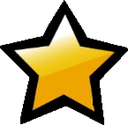
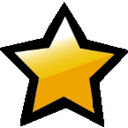
Implement skill star animation

diff --git a/core/src/main/kotlin/io/github/chrislo27/bouncyroadmania/engine/Engine.kt b/core/src/main/kotlin/io/github/chrislo27/bouncyroadmania/engine/Engine.kt
@@ -199,6 +199,8 @@ class Engine : Clock(), Disposable {
     val normalBouncerCurrentTint: Color = Color(1f, 1f, 1f, 1f).set(normalBouncerTint)
     val aBouncerCurrentTint: Color = Color(1f, 1f, 1f, 1f).set(aBouncerTint)
     val dpadBouncerCurrentTint: Color = Color(1f, 1f, 1f, 1f).set(dpadBouncerTint)
+    private var skillStarSpinAnimation: Float = 0f
+    private var skillStarPulseAnimation: Float = 0f
 
     // Practice related
     var currentTextBox: TextBox? = null
@@ -369,6 +371,29 @@ class Engine : Clock(), Disposable {
             }
         }
 
+        if (skillStarInput.isFinite()) {
+            if (skillStarSpinAnimation > 0) {
+                skillStarSpinAnimation -= Gdx.graphics.deltaTime / 1f
+                if (skillStarSpinAnimation < 0)
+                    skillStarSpinAnimation = 0f
+            }
+            if (skillStarPulseAnimation > 0) {
+                skillStarPulseAnimation -= Gdx.graphics.deltaTime / 0.5f
+                if (skillStarPulseAnimation < 0)
+                    skillStarPulseAnimation = 0f
+            } else {
+                // Pulse before skill star input
+                val threshold = 0.1f
+                for (i in 0 until 4) {
+                    val beatPoint = tempos.beatsToSeconds(skillStarInput - i)
+                    if (seconds in beatPoint..beatPoint + threshold) {
+                        skillStarPulseAnimation = 0.5f
+                        break
+                    }
+                }
+            }
+        }
+        
         // No super update
         if (playState != PlayState.PLAYING)
             return
@@ -528,6 +553,16 @@ class Engine : Clock(), Disposable {
             font.scaleMul(1f / 0.5f)
             font.unscaleFont()
         }
+        
+        if (skillStarInput.isFinite()) {
+            val texColoured = AssetRegistry.get<Texture>("tex_skill_star")
+            val texGrey = AssetRegistry.get<Texture>("tex_skill_star_grey")
+            
+            val scale = Interpolation.exp10.apply(1f, 2f, (skillStarPulseAnimation).coerceAtMost(1f))
+            val rotation = Interpolation.exp10Out.apply(0f, 360f, 1f - skillStarSpinAnimation)
+            batch.draw(if (gotSkillStar) texColoured else texGrey, 1184f, 32f, 32f, 32f, 64f, 64f, scale, scale, rotation,
+                    0, 0, texColoured.width, texColoured.height, false, false)
+        }
 
         if (xMoreTimes > 0) {
             val font = BRManiaApp.instance.defaultBorderedFontLarge
@@ -620,9 +655,11 @@ class Engine : Clock(), Disposable {
     }
 
     fun fireSkillStar() {
-        if (gotSkillStar)
+        if (gotSkillStar || skillStarInput.isInfinite())
             return
         gotSkillStar = true
+        skillStarSpinAnimation = 1f
+        skillStarPulseAnimation = 2f
         AssetRegistry.get<BeadsSound>("sfx_skill_star").play()
     }
 
@@ -631,6 +668,8 @@ class Engine : Clock(), Disposable {
         expectedNumInputs = 0
         lastInputMap.clear()
         gotSkillStar = false
+        skillStarSpinAnimation = 0f
+        skillStarPulseAnimation = 0f
     }
 
     fun wouldEventsFitNewTrackCount(newCount: Int): Boolean {

diff --git a/core/src/main/kotlin/io/github/chrislo27/bouncyroadmania/screen/PlayingScreen.kt b/core/src/main/kotlin/io/github/chrislo27/bouncyroadmania/screen/PlayingScreen.kt
@@ -83,7 +83,7 @@ open class PlayingScreen(main: BRManiaApp, val engine: Engine) : ToolboksScreen<
             })
             this.leftClickAction = { _, _ ->
                 engine.playState = PlayState.STOPPED
-                playSelectSfx()
+                playStartOverSfx()
                 reset()
             }
         }
@@ -159,6 +159,10 @@ open class PlayingScreen(main: BRManiaApp, val engine: Engine) : ToolboksScreen<
     
     protected open fun playSelectSfx() {
         AssetRegistry.get<Sound>("sfx_select").play()
+    }
+
+    protected open fun playStartOverSfx() {
+        AssetRegistry.get<Sound>("sfx_enter_game").play()
     }
 
     protected open fun onQuit() {

diff --git a/core/src/main/kotlin/io/github/chrislo27/bouncyroadmania/init/InitialAssetLoader.kt b/core/src/main/kotlin/io/github/chrislo27/bouncyroadmania/init/InitialAssetLoader.kt
@@ -22,6 +22,8 @@ class InitialAssetLoader : AssetRegistry.IAssetLoader {
         AssetRegistry.loadAsset<Texture>("tex_bouncer_red", "images/game/red.png")
         AssetRegistry.loadAsset<Texture>("tex_bouncer_yellow", "images/game/yellow.png")
         AssetRegistry.loadAsset<Texture>("tex_main_menu_gradient", "images/main_menu_gradient.png")
+        AssetRegistry.loadAsset<Texture>("tex_skill_star", "images/game/skill_star.png")
+        AssetRegistry.loadAsset<Texture>("tex_skill_star_grey", "images/game/skill_star_grey.png")
 
         AssetRegistry.loadAsset<Texture>("event_stretchable_arrow", "images/stretchable/arrow.png")
 
